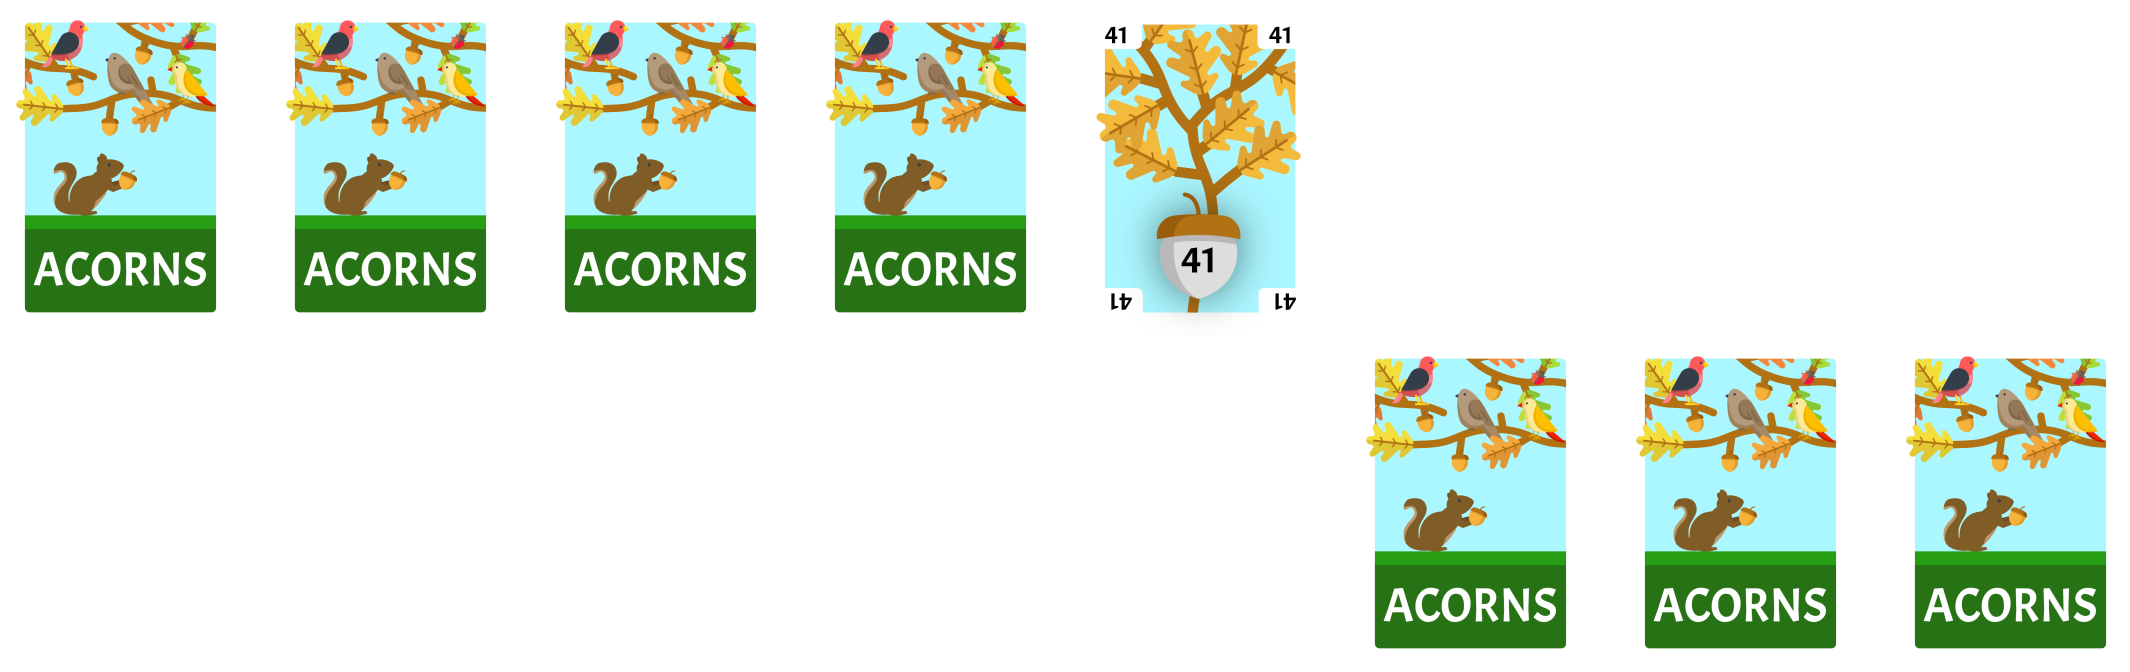
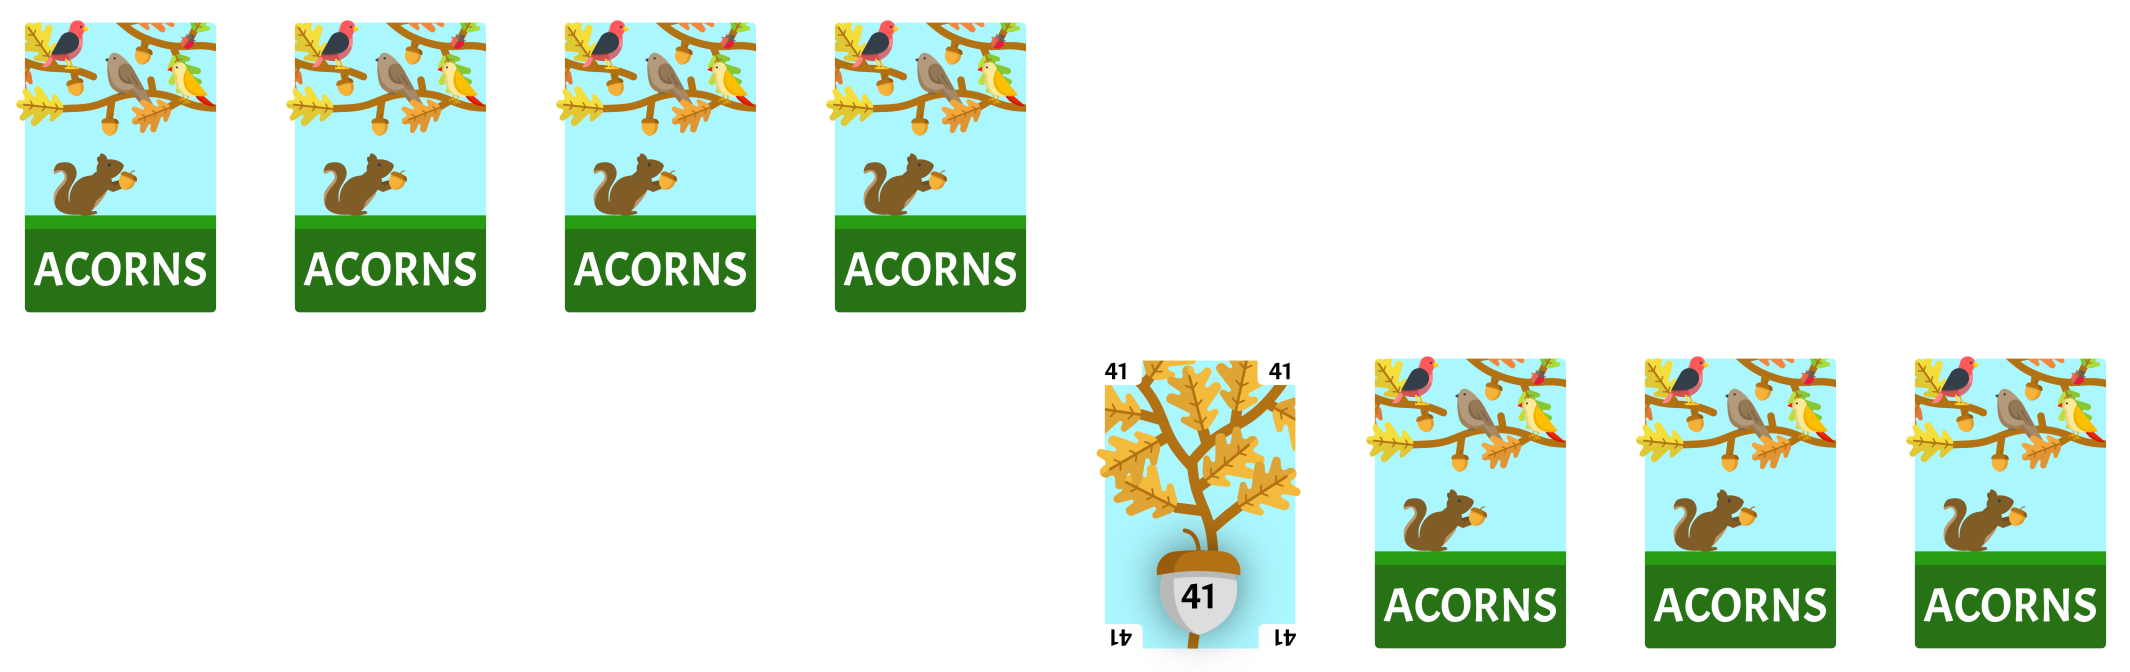
redid quicksort images, quicksort example added

Changed region(s): [[0.4958, 0.5312, 0.6197, 0.9688], [0.4958, 0.0312, 0.6197, 0.4688]]

diff --git a/_pages/quicksort.md b/_pages/quicksort.md
@@ -61,63 +61,175 @@ If there are no shifted-up cards, swap it with the left-most card in the collect
 
 Here is an example of this algorithm applied to the cards 25, 06, 47, 54, 29, 35, 67, and 41.
 
+The right-most card **41** of our collection is flipped face-up as our *pivot* card.
+
 {% include figure image_path="/assets/images/qsort0.png" alt="this is a placeholder image" caption="Sample cards from the Acorn deck." %}
+
+The first *current* card is the left-most card of the collection **25**. **25** is *less than* our *pivot* card **41** so it must be shifted up.
+
+There is a face-down card to the right of our *current* card so we flip our *current* card **25** face-down and flip the card to the right face-up.
 
 {% include figure image_path="/assets/images/qsort1.png" alt="this is a placeholder image" caption="Sample cards from the Acorn deck." %}
 
+The *current* card **06** is *less than* our *pivot* card **41** so it must be shifted up.
+
+There is a face-down card to the right of our *current* card so we flip our *current* card **06** face-down and flip the card to the right face-up.
+
 {% include figure image_path="/assets/images/qsort2.png" alt="this is a placeholder image" caption="Sample cards from the Acorn deck." %}
+
+The *current* card **47** is *greater than* our *pivot* card **41** so we continue.
+
+There is a face-down card to the right of our *current* card so we flip our *current* card **47** face-down and flip the card to the right face-up.
 
 {% include figure image_path="/assets/images/qsort3.png" alt="this is a placeholder image" caption="Sample cards from the Acorn deck." %}
 
+The *current* card **54** is *greater than* our *pivot* card **41** so we continue.
+
+There is a face-down card to the right of our *current* card so we flip our *current* card **54** face-down and flip the card to the right face-up.
+
 {% include figure image_path="/assets/images/qsort4.png" alt="this is a placeholder image" caption="Sample cards from the Acorn deck." %}
+
+The *current* card **29** is *less than* our *pivot* card **41** so it must be shifted up.
+
+The card to the immediate right of our shifted-up cards is swapped into its place.
+
+There is a face-down card to the right of where our *current* card was so we flip our *current* card **29** face-down and flip the card to the right face-up.
 
 {% include figure image_path="/assets/images/qsort5.png" alt="this is a placeholder image" caption="Sample cards from the Acorn deck." %}
 
+The *current* card **35** is *less than* our *pivot* card **41** so it must be shifted up.
+
+The card to the immediate right of our shifted-up cards is swapped into its place.
+
+There is a face-down card to the right of where our *current* card was so we flip our *current* card **35** face-down and flip the card to the right face-up.
+
 {% include figure image_path="/assets/images/qsort6.png" alt="this is a placeholder image" caption="Sample cards from the Acorn deck." %}
+
+The *current* card **54** is *greater than* our *pivot* card **41** so we continue.
+
+There is no face-down card to the right of our *current* card so we stop and flip the *current* card face-down.
 
 {% include figure image_path="/assets/images/qsort7.png" alt="this is a placeholder image" caption="Sample cards from the Acorn deck." %}
 
+The card to the immediate right of our shifted-up cards is swapped with the *pivot* card.
+
 {% include figure image_path="/assets/images/qsort8.png" alt="this is a placeholder image" caption="Sample cards from the Acorn deck." %}
+
+The shifted up cards will become our *current collection*.
+
+The right-most card **35** of our collection is flipped face-up as our *pivot* card.
 
 {% include figure image_path="/assets/images/qsort9.png" alt="this is a placeholder image" caption="Sample cards from the Acorn deck." %}
 
+The first *current* card is the left-most card of the collection **25**. **25** is *less than* our *pivot* card **35** so it must be shifted up.
+
+There is a face-down card to the right of our *current* card so we flip our *current* card **25** face-down and flip the card to the right face-up.
+
 {% include figure image_path="/assets/images/qsort10.png" alt="this is a placeholder image" caption="Sample cards from the Acorn deck." %}
+
+The *current* card **06** is *less than* our *pivot* card **35** so it must be shifted up.
+
+There is a face-down card to the right of our *current* card so we flip our *current* card **06** face-down and flip the card to the right face-up.
 
 {% include figure image_path="/assets/images/qsort11.png" alt="this is a placeholder image" caption="Sample cards from the Acorn deck." %}
 
+The *current* card **29** is *less than* our *pivot* card **35** so it must be shifted up.
+
+There is no face-down card to the right of our *current* card so we stop and flip the *current* card face-down.
+
 {% include figure image_path="/assets/images/qsort12.png" alt="this is a placeholder image" caption="Sample cards from the Acorn deck." %}
+
+The card to the immediate right of our shifted-up cards is swapped with the *pivot* card.
 
 {% include figure image_path="/assets/images/qsort13.png" alt="this is a placeholder image" caption="Sample cards from the Acorn deck." %}
 
+The shifted up cards will become our *current collection*.
+
+The right-most card **29** of our collection is flipped face-up as our *pivot* card.
+
 {% include figure image_path="/assets/images/qsort14.png" alt="this is a placeholder image" caption="Sample cards from the Acorn deck." %}
+
+The first *current* card is the left-most card of the collection **25**. **25** is *less than* our *pivot* card **29** so it must be shifted up.
+
+There is a face-down card to the right of our *current* card so we flip our *current* card **25** face-down and flip the card to the right face-up.
 
 {% include figure image_path="/assets/images/qsort15.png" alt="this is a placeholder image" caption="Sample cards from the Acorn deck." %}
 
+The *current* card **06** is *less than* our *pivot* card **29** so it must be shifted up.
+
+There is no face-down card to the right of our *current* card so we stop and flip the *current* card face-down.
+
 {% include figure image_path="/assets/images/qsort16.png" alt="this is a placeholder image" caption="Sample cards from the Acorn deck." %}
 
-{% include figure image_path="/assets/images/qsort17.png" alt="this is a placeholder image" caption="Sample cards from the Acorn deck." %}
+The card to the immediate right of our shifted-up cards is swapped with the *pivot* card.
 
 {% include figure image_path="/assets/images/qsort18.png" alt="this is a placeholder image" caption="Sample cards from the Acorn deck." %}
 
+The shifted up cards will become our *current collection*.
+
+The right-most card **06** of our collection is flipped face-up as our *pivot* card
+
 {% include figure image_path="/assets/images/qsort19.png" alt="this is a placeholder image" caption="Sample cards from the Acorn deck." %}
+
+The first *current* card is the left-most card of the collection **25**. **25** is *greater than* our *pivot* card **06** so we continue.
+
+There is no face-down card to the right of our *current* card so we stop and flip the *current* card face-down.
 
 {% include figure image_path="/assets/images/qsort20.png" alt="this is a placeholder image" caption="Sample cards from the Acorn deck." %}
 
+Since there are no shifted up cards, the left-most card in the collection is swapped with the *pivot* card.
+
 {% include figure image_path="/assets/images/qsort21.png" alt="this is a placeholder image" caption="Sample cards from the Acorn deck." %}
+
+There is only one card in the next collection, so it is flipped face-up.
 
 {% include figure image_path="/assets/images/qsort22.png" alt="this is a placeholder image" caption="Sample cards from the Acorn deck." %}
 
+The cards that have never been shifted-up become our *current collection*.
+
+The right-most card **47** of our collection is flipped face-up as our *pivot* card
+
 {% include figure image_path="/assets/images/qsort23.png" alt="this is a placeholder image" caption="Sample cards from the Acorn deck." %}
+
+The first *current* card is the left-most card of the collection **54**. **54** is *greater than* our *pivot* card **47** so we continue.
+
+There is a face-down card to the right of our *current* card so we flip our *current* card **54** face-down and flip the card to the right face-up.
 
 {% include figure image_path="/assets/images/qsort24.png" alt="this is a placeholder image" caption="Sample cards from the Acorn deck." %}
 
+The *current* card **67** is *greater than* our *pivot* card **47** so we continue.
+
+There is no face-down card to the right of our *current* card so we stop and flip the *current* card face-down.
+
 {% include figure image_path="/assets/images/qsort25.png" alt="this is a placeholder image" caption="Sample cards from the Acorn deck." %}
+
+Since there are no shifted up cards, the left-most card in the collection is swapped with the *pivot* card.
 
 {% include figure image_path="/assets/images/qsort26.png" alt="this is a placeholder image" caption="Sample cards from the Acorn deck." %}
 
+The cards that have never been shifted-up become our *current collection*.
+
+The right-most card **54** of our collection is flipped face-up as our *pivot* card
+
 {% include figure image_path="/assets/images/qsort27.png" alt="this is a placeholder image" caption="Sample cards from the Acorn deck." %}
 
+The first *current* card is the left-most card of the collection **67**. **67** is *greater than* our *pivot* card **54** so we continue.
+
+There is no face-down card to the right of our *current* card so we stop and flip the *current* card face-down.
+
 {% include figure image_path="/assets/images/qsort28.png" alt="this is a placeholder image" caption="Sample cards from the Acorn deck." %}
+
+Since there are no shifted up cards, the left-most card in the collection is swapped with the *pivot* card.
+
+{% include figure image_path="/assets/images/qsort29.png" alt="this is a placeholder image" caption="Sample cards from the Acorn deck." %}
+
+There is only one card in the next collection, so it is flipped face-up.
+
+{% include figure image_path="/assets/images/qsort30.png" alt="this is a placeholder image" caption="Sample cards from the Acorn deck." %}
+
+### Finished
+
+Now all the cards should be flipped up and in sorted order.
 
 ## Exercises
 
